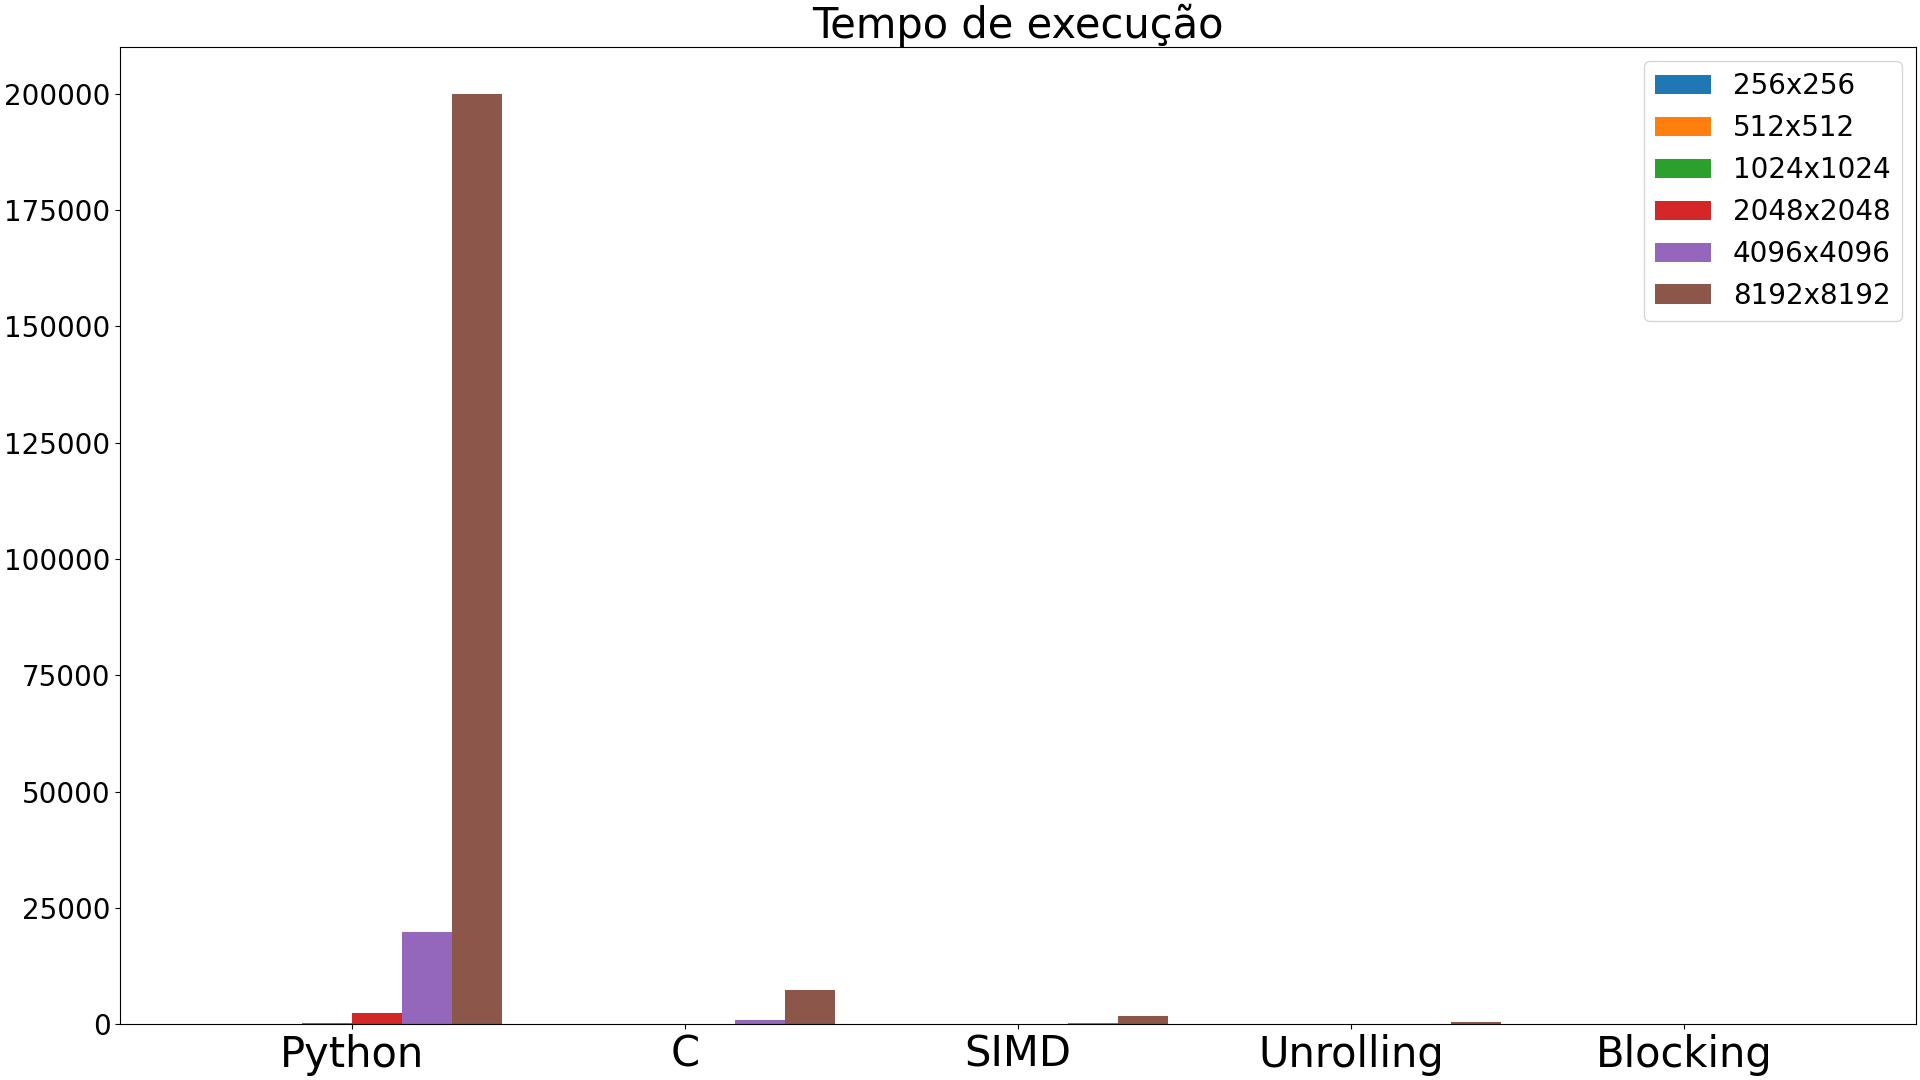
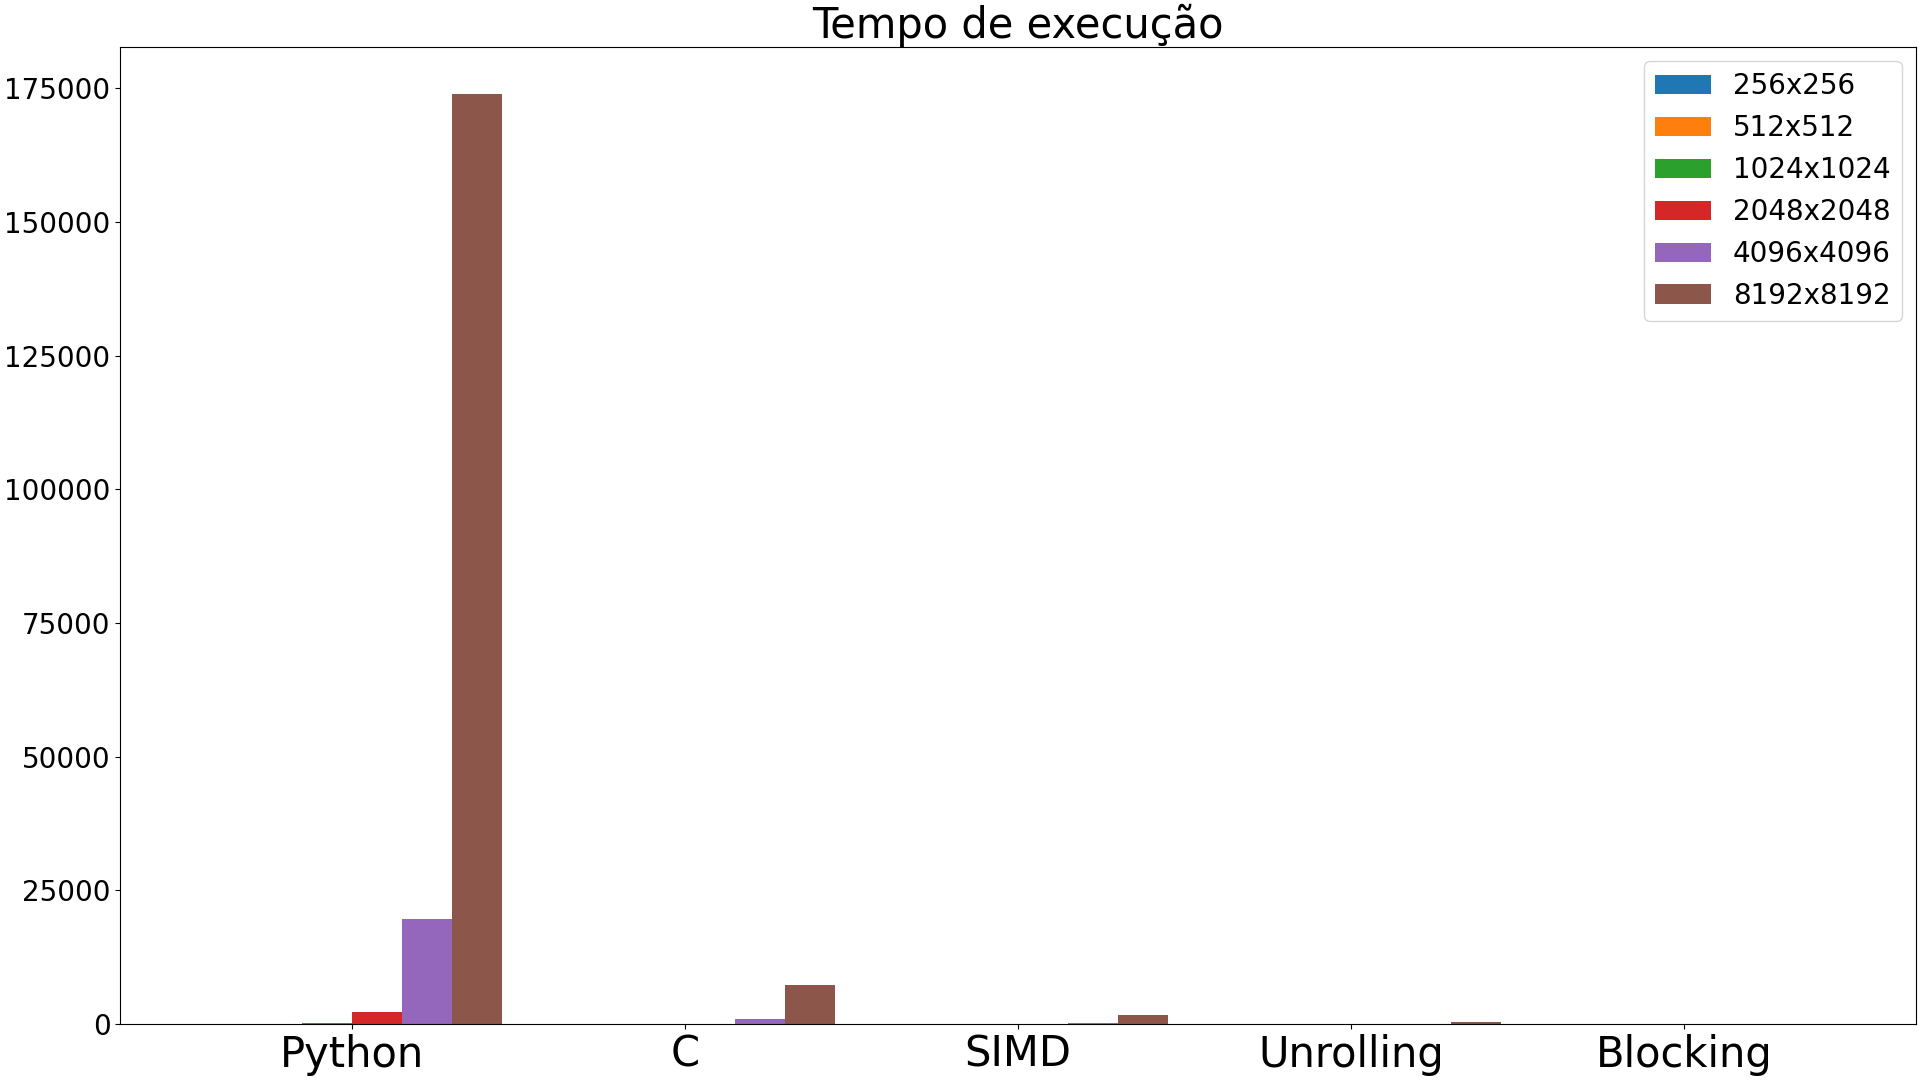
Updating graphs with final Python result.

diff --git a/Graphs/graphs.py b/Graphs/graphs.py
@@ -10,7 +10,7 @@ categories = ['Python', 'C', 'SIMD', 'Unrolling', 'Blocking']
 
 # Ler dados (no C, peguei o -O3)
 
-placeholder_python = 200000
+placeholder_python = 173900 # Agora é o dado certo! Não mais placeholder
 
 data_list = [
     Data((3.69, 0.00682, 0.00218, 0.00129, 0.00108), '256x256'),
